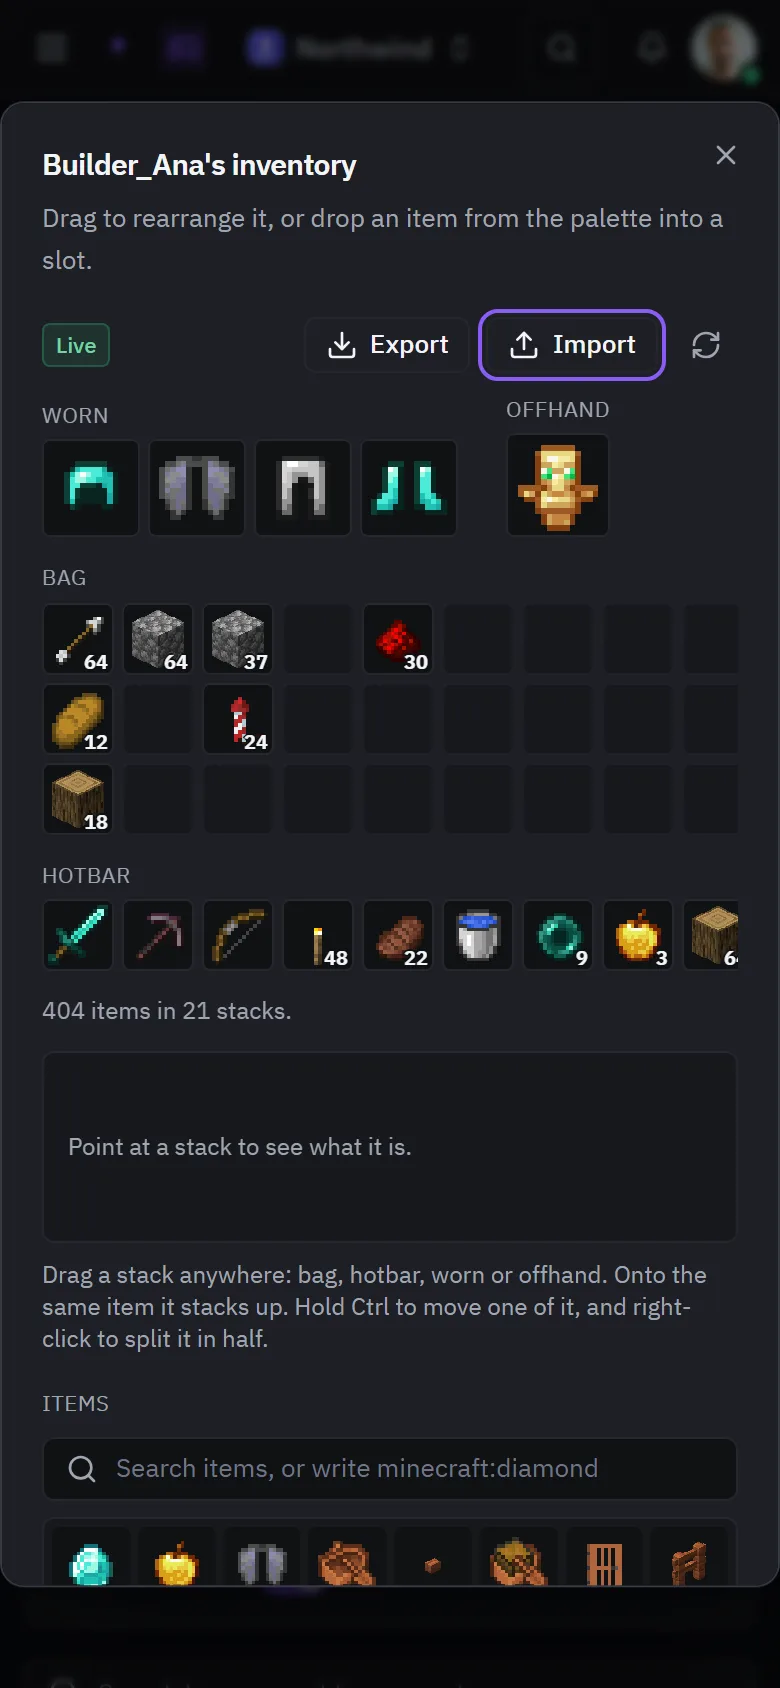
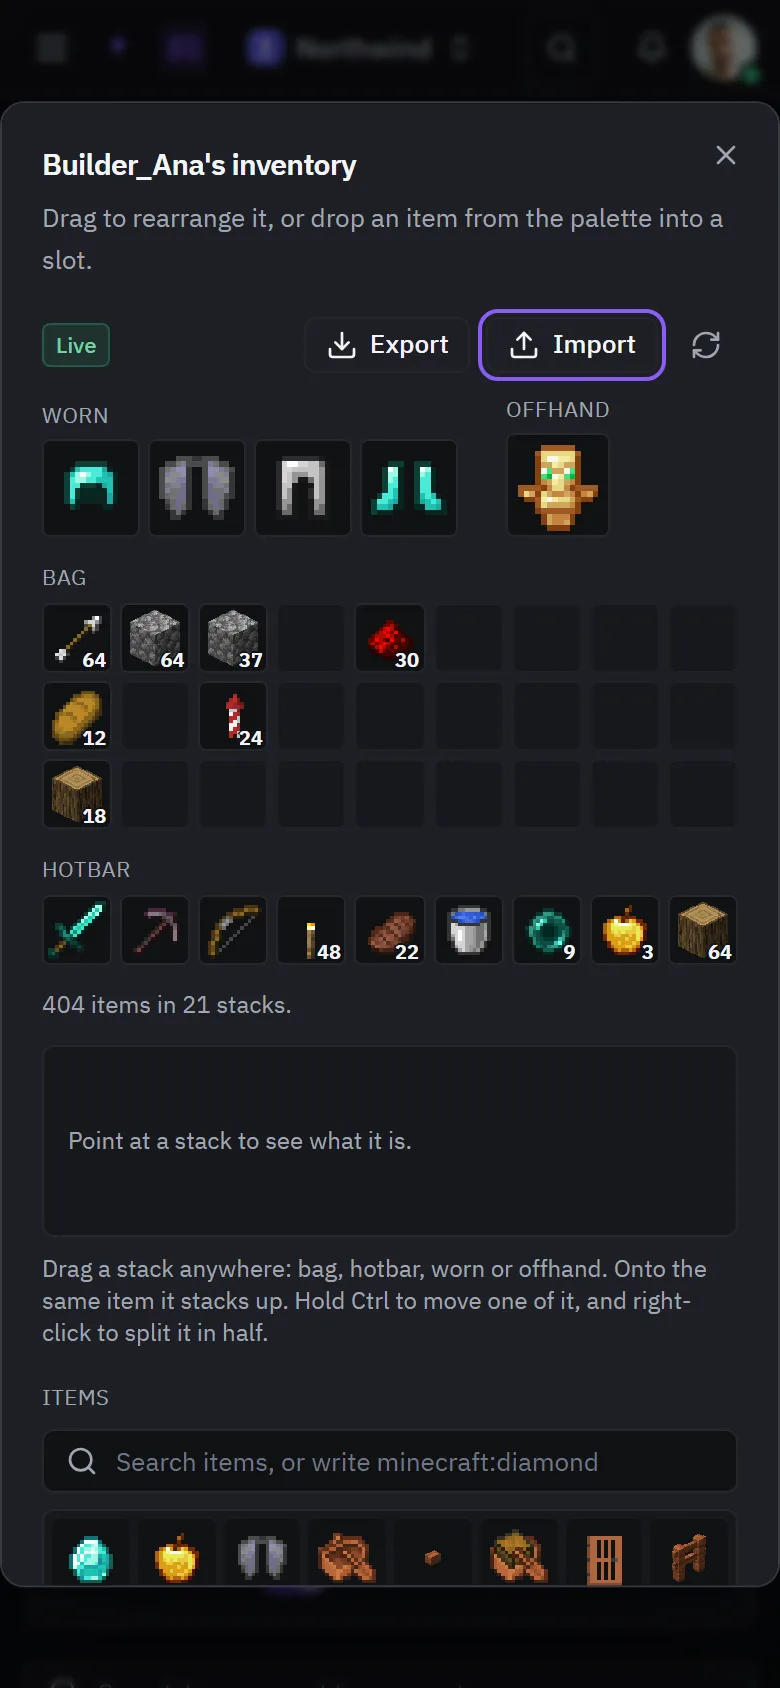
🐛 fix(games): inventory rows fit a phone instead of cutting off the ninth column

diff --git a/dashboard/apps/game-servers/src/screens/installed/minecraft-inventory.tsx b/dashboard/apps/game-servers/src/screens/installed/minecraft-inventory.tsx
@@ -235,7 +235,11 @@ function Section({
     onInspect: (slot: number) => void;
     onCancelPending?: (id: string) => void;
 }) {
-    const template = { gridTemplateColumns: `repeat(${columns}, minmax(${SLOT_MIN}, 1fr))` };
+    // The nine-wide rows have no floor: on a phone the cells shrink with the
+    // dialog rather than pushing the ninth column out of it.
+    const template = {
+        gridTemplateColumns: `repeat(${columns}, minmax(${grow ? "0" : SLOT_MIN}, 1fr))`
+    };
 
     return (
         <div className={grow ? "flex min-w-0 flex-col gap-1" : "flex shrink-0 flex-col gap-1"}>
